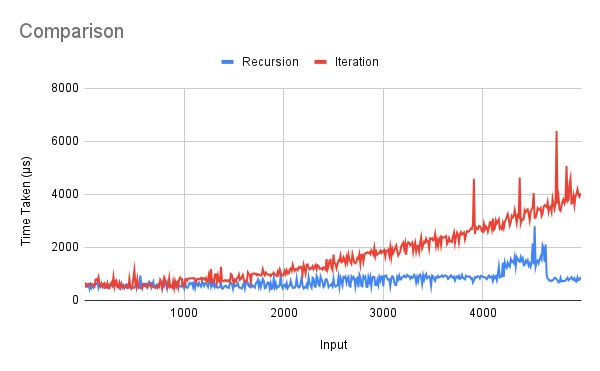
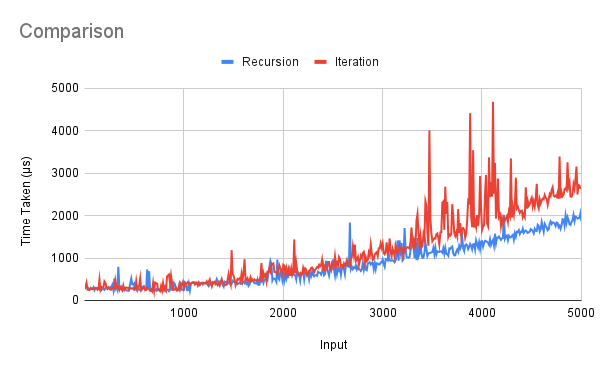
Data recalculated

diff --git a/DivAndConq/Mergesort/README.md b/DivAndConq/Mergesort/README.md
@@ -7,7 +7,7 @@ Two variations on the mergesort algorithms were covered in class:
 Both have been implemented in the file. They both make use of the same `merge` function.  
 
 ## Running
-To run one of the algorithms, uncomment (remove the two hyphens and the space preceding) the corresponding line in the `main` function, save the file, and recompile. When running, pass the list (enclosed in quotes) as a command-line argument.
+To run one of the functions, uncomment (remove the two hyphens and the space preceding) the corresponding line in the `main` function, save the file, and recompile. When running, pass the list (enclosed in quotes) as a command-line argument.
 ```
 > ./mergesort "[3,1,4,1,5,9]"
 > [1,1,3,4,5,9]
@@ -34,25 +34,22 @@ There is still a big difference in the operation of the so-called iterative code
 ## Analysis
 The R² values of the best fit of various types of functions for each of the functions' running times are shown below.  
 
-Algorithm | Linear | Quadratic | Exponential | Power Series | Logarithmic  
---------- | ------ | --------- | ----------- | ------------ | -----------  
-Recursion | 0.881  | 0.955     | 0.952       | 0.595        | 0.475  
-Iteration | 0.43   | 0.462     | 0.44        | 0.288        | 0.231  
+Algorithm    | Linear | Quadratic | Exponential | Power Series | Logarithmic  
+------------ | ------ | --------- | ----------- | ------------ | -----------  
+Recursion    | 0.902  | 0.952     | 0.947       | 0.632        | 0.519  
+Iteration    | 0.817  | 0.869     | 0.852       | 0.638        | 0.46  
 
-The best fit curve is not considered for the recursive methods as the R² values show that the trendline is not accurate for any standard type of function.  
+The best fit curve is not considered for the recursive method as the predicted curve is *n*log*n*, which cannot be generated.
 
 ### Recursion
-This version's running time remains roughly constant in the range 0 to 3000, but then fluctuates a lot before returning to a stable state. However, it is remarkably efficient for a recursive solution.  
-
-This is possibly due to the Haskell compiler (`ghc`) optimising recursion. Since Haskell is functional, it relies heavily on recursion, and therefore the compiler reduces the impact of this as much as possible in the object code.
+This implementation increases roughly quadratically. However, it should be noted that *n*log*n* is roughly similar to a quadratic curve, so this need not be taken as evidence against it being *n*log*n*.  
 
 ![Running Time of the Recursive Implementation](Rec.png)  
 
-
 ### Iteration
-This implementation is noticeably more regular than the recursive one, but it increases much, much faster, even in the same range. As noted above, the function is not truly recursive – its main distinction from the previous version is that it is bottom-up rather than top-down.  
+This implementation's running time increases faster than the recursive one, even in the same range. As noted above, the function is not truly recursive – its main distinction from the previous version is that it is bottom-up rather than top-down.  
 
-It appears interesting that it is so much slower than the first solution, since in imperative languages, iterative solutions are typically more efficient due to function call overheads. In Haskell, however (as noted above), the minimisation of these overheads is prioritised, since the language depends on them to a huge extent.  
+It appears interesting that it is slower than the first solution, since in imperative languages, iterative solutions are typically more efficient due to function call overheads. In Haskell, however, the minimisation of these overheads is prioritised, since the language depends on them to a huge extent.  
 An explanation for the inefficiency of the second method can be given by an analysis of its running time. This, significantly, does *not* turn out to be identical to the expected O(nlogn), because `(++)`, the concatenation operator, is linear in the length of its first operand. Using it in the queue manipulation is a possible source of the inefficiency.  
 
 To analyse the runtime, we note that the queue starts with *n* elements, *i.e.*,
@@ -61,14 +58,15 @@ To analyse the runtime, we note that the queue starts with *n* elements, *i.e.*,
 ```
 and at each step, its length reduces by 1, until it has one element. Thus (*n*-1) steps take place. We now consider the operations that take place in each step.  
 At the first step, the first argument of `(++)` has (*n*-2) elements; at the second, (*n*-3); and so on. Thus the `(++)` takes O(*n*) time.  
-In addition, the `length` function is applied on the queue at each step, and it too runs in linear time.  
-Thirdly, `merge` is linear in the sum of the lengths of its arguments, but this is bounded above by *n*. We can therefore ignore it.  
+Secondly, `merge` is linear in the sum of the lengths of its arguments, but this is bounded above by *n*. We can therefore ignore it.  
 
 Hence, we have O(*n*) steps that each run in O(*n*) time, which makes this implementation, in fact, quadratic. This explains to some extent the extra running time. The quadratic best fit line, too, has a very high R² value.  
 
 ![Running Time of the Iterative Implementation](Iter.png)  
 
 ## Comparisons
-The graph illustrates the extreme difference between the two implementations' running times very clearly. After *n* = 2000, the iterative method rises well above the recursive method and does not touch it even when the latter spikes after *n* = 4000.
+The graph comparing the recursive method with iteration illustrates the difference between the two implementations' running times very clearly. After *n* = 3500, the iterative method rises above the recursive method and does not touch it.  
 
-![Comparison of Methods](Comp.png)  
+This is possibly due to the Haskell compiler (`ghc`) optimising recursion, as noted above. Since Haskell is functional, it relies heavily on recursion, and therefore the compiler reduces the impact of this as much as possible in the object code.  
+
+![Comparison](Comp.png)  
